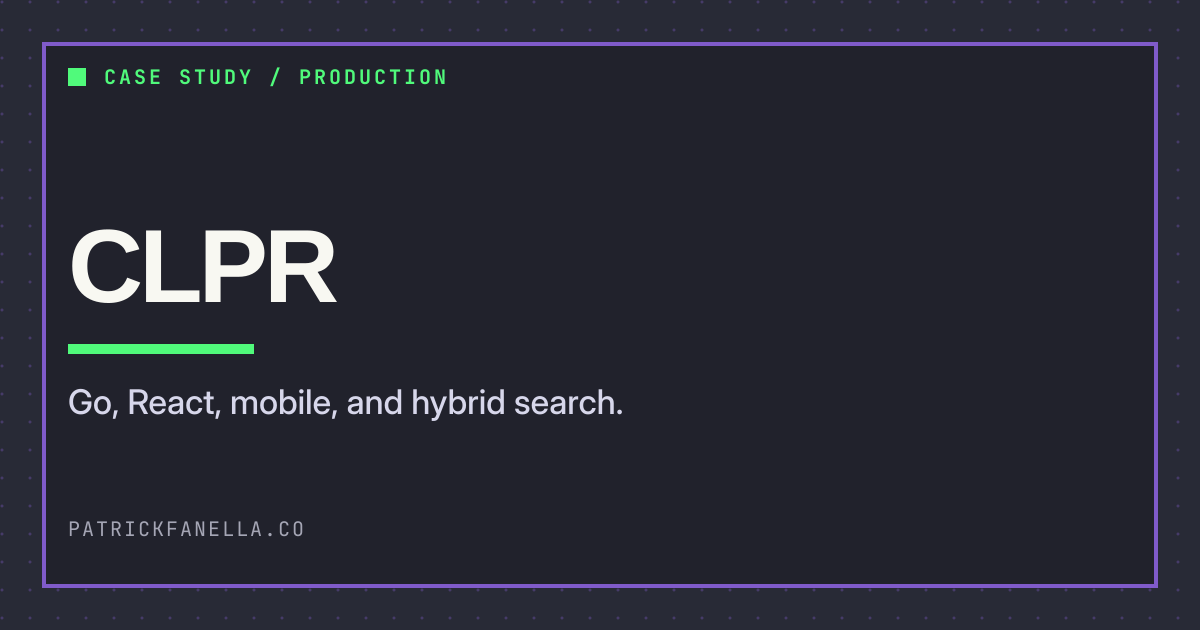
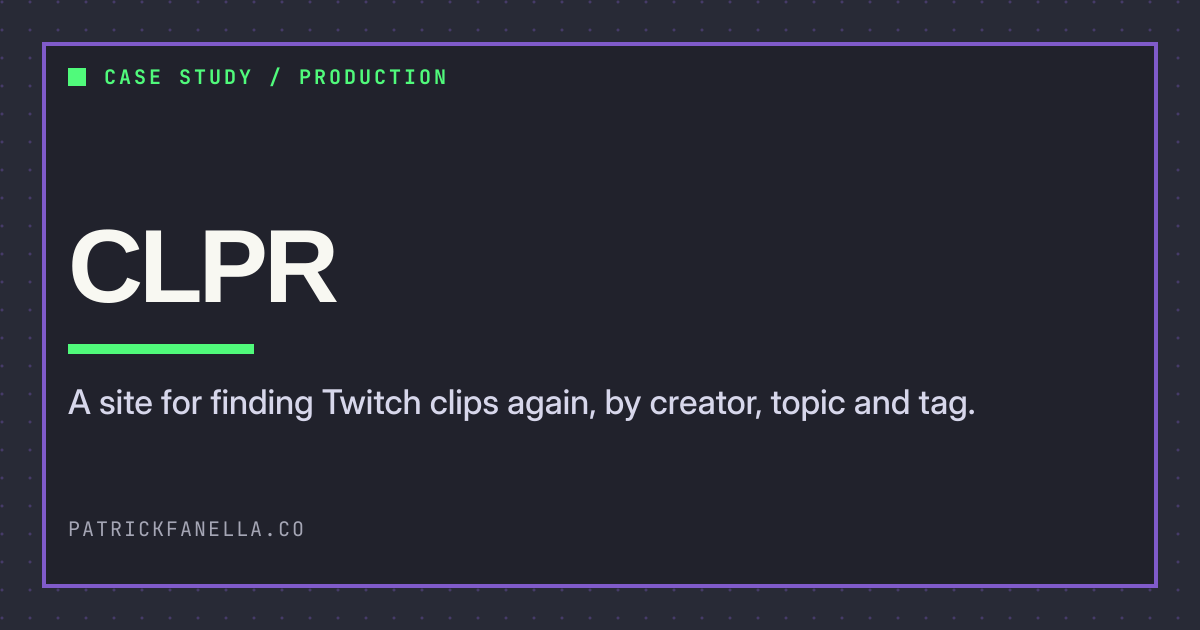
copy(social-cards): put the current headline and project summaries on the cards
The default card now carries the home headline. Each project card takes
its title and the first sentence of its summary from
db/seed/portfolio.json; detail longer than 66 characters wraps to two
lines. Eyebrows, layout, fonts, sizes and file names are unchanged.

Text on the cards:
- default: I write the API, the interface, and the runbook.
- Clpr: A site for finding Twitch clips again, by creator, topic and tag.
- Patchwork: A pre-alpha demonstration of mutual-aid requests and
  offers on AT Protocol.
- HasanAra: A searchable archive of HasanAbi broadcast transcripts,
  with chapters, tags and saved moments.

Rendered with npm run social:cards (librsvg 2.62.3), documented in
web/README.md:
5d37d975f13f8a2a8576d6e089b68e2dd3f3fcaffb17eeedaf393cbebcdd831f  clpr-1200x630.png
01ccc43108d9bb5e69c8c125eea0ab6e1c4f6cea8a44ce82254a61dea56ae72e  hasanara-1200x630.png
c3c62902af6e525e9ca48e595b95a8f1cdd1392199ab15da7f115c9f6c83bbcc  patchwork-1200x630.png
bb3f1eb4a20b8c9d600cefda4f7548e8afb7d828a3e3b1217068352c2e716940  patrick-fanella-portfolio-1200x630.png

Changed region(s): [[0.0617, 0.6032, 0.8325, 0.6635]]

diff --git a/web/README.md b/web/README.md
@@ -29,6 +29,19 @@ It centralizes:
 - `npm run test`: run frontend unit tests
 - `npm run test:e2e`: run the Playwright smoke path against the seeded local stack
 
+## Social cards
+
+The four 1200x630 PNGs in `public/assets/social/` are drawn by `scripts/generate-social-cards.mjs`. It writes one SVG per card and converts it with `rsvg-convert` (librsvg).
+
+- `npm run social:cards`: redraw the cards in place
+- `npm run social:cards -- --out /tmp/cards`: draw them somewhere else, to compare before replacing anything
+
+The script needs `rsvg-convert`, `fc-list` and three installed fonts: Liberation Sans Bold (title), the Inter variable font (detail line) and JetBrainsMono Nerd Font in Regular and Bold (eyebrow and footer). It finds those files by exact family name and renders through a private fontconfig that holds only them, so host font aliases cannot substitute another face. A missing font stops the run with an error.
+
+The title face is Liberation Sans because the first cards were drawn on a machine without Space Grotesk, where the `Arial` fallback resolved to it. With the pinned fonts and librsvg 2.62.3, the script reproduced the cards committed in August byte for byte.
+
+Card text: the default card carries the home page headline, set in the script. Each project card takes its title and the first sentence of its summary from `db/seed/portfolio.json`. Detail text longer than one line wraps to two. After changing the headline or a flagship summary, rerun the command, open every PNG, and commit the images with the text change.
+
 ## Phase 2 route states
 
 Phase 2 replaces runtime usage of `src/data/projects.ts` with the shared API client and intentional route states:
